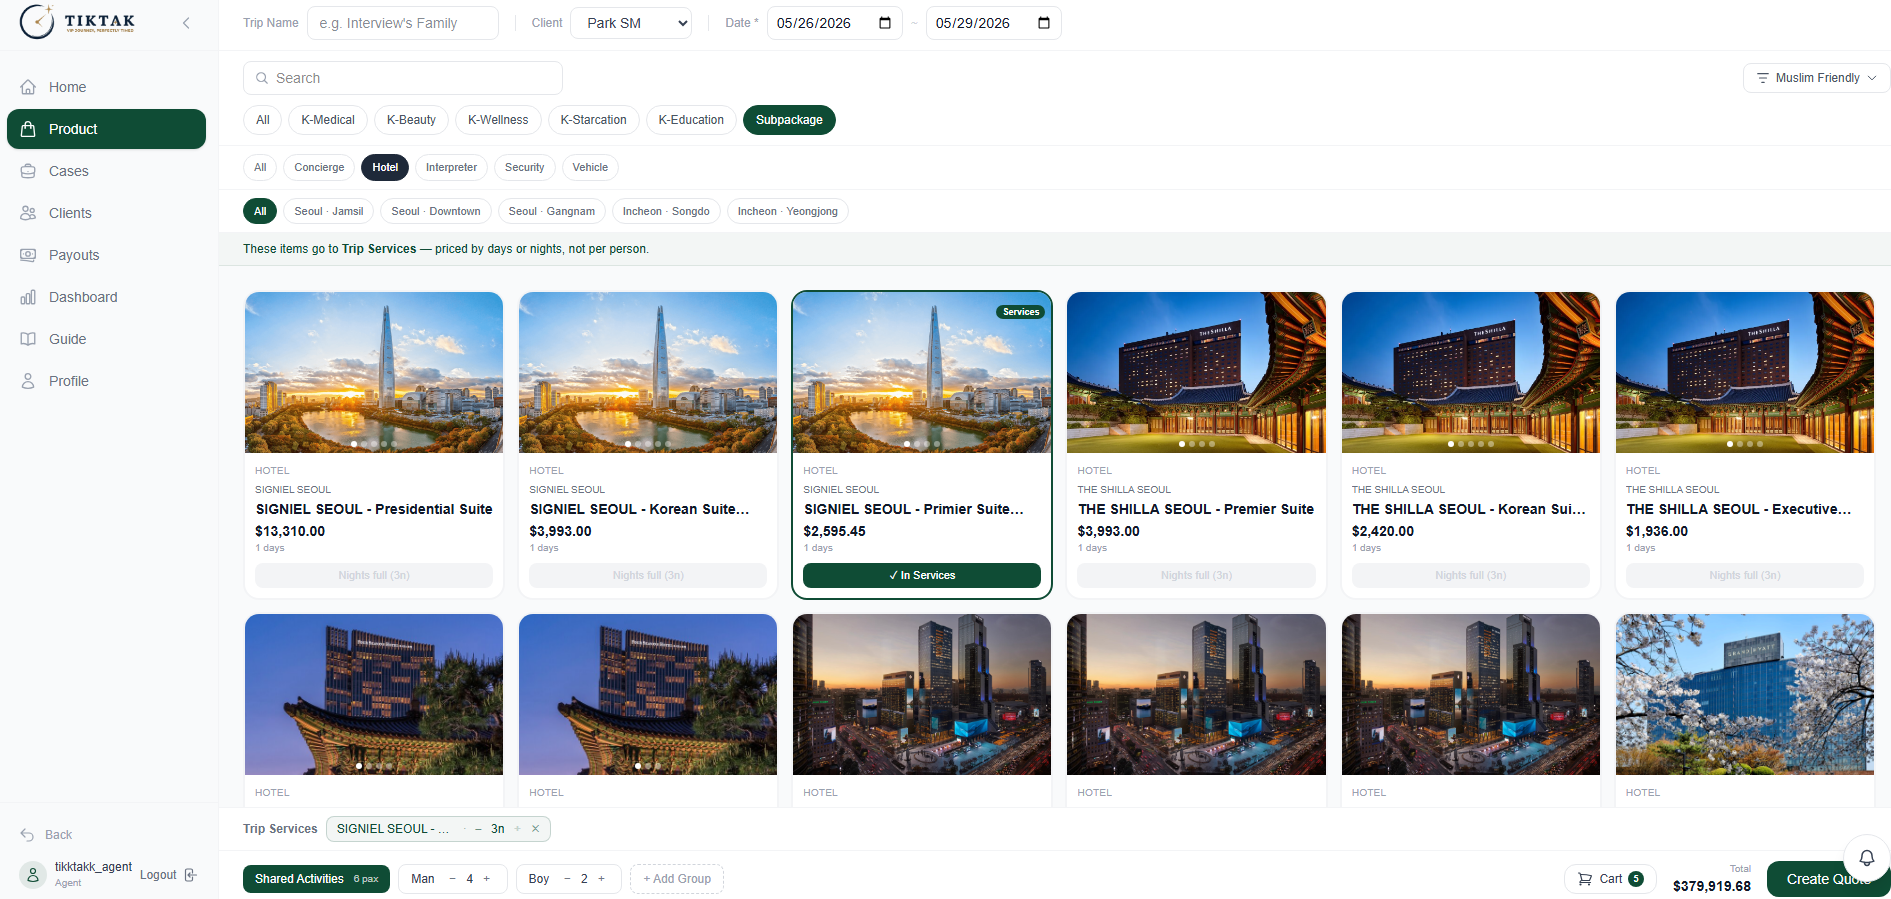
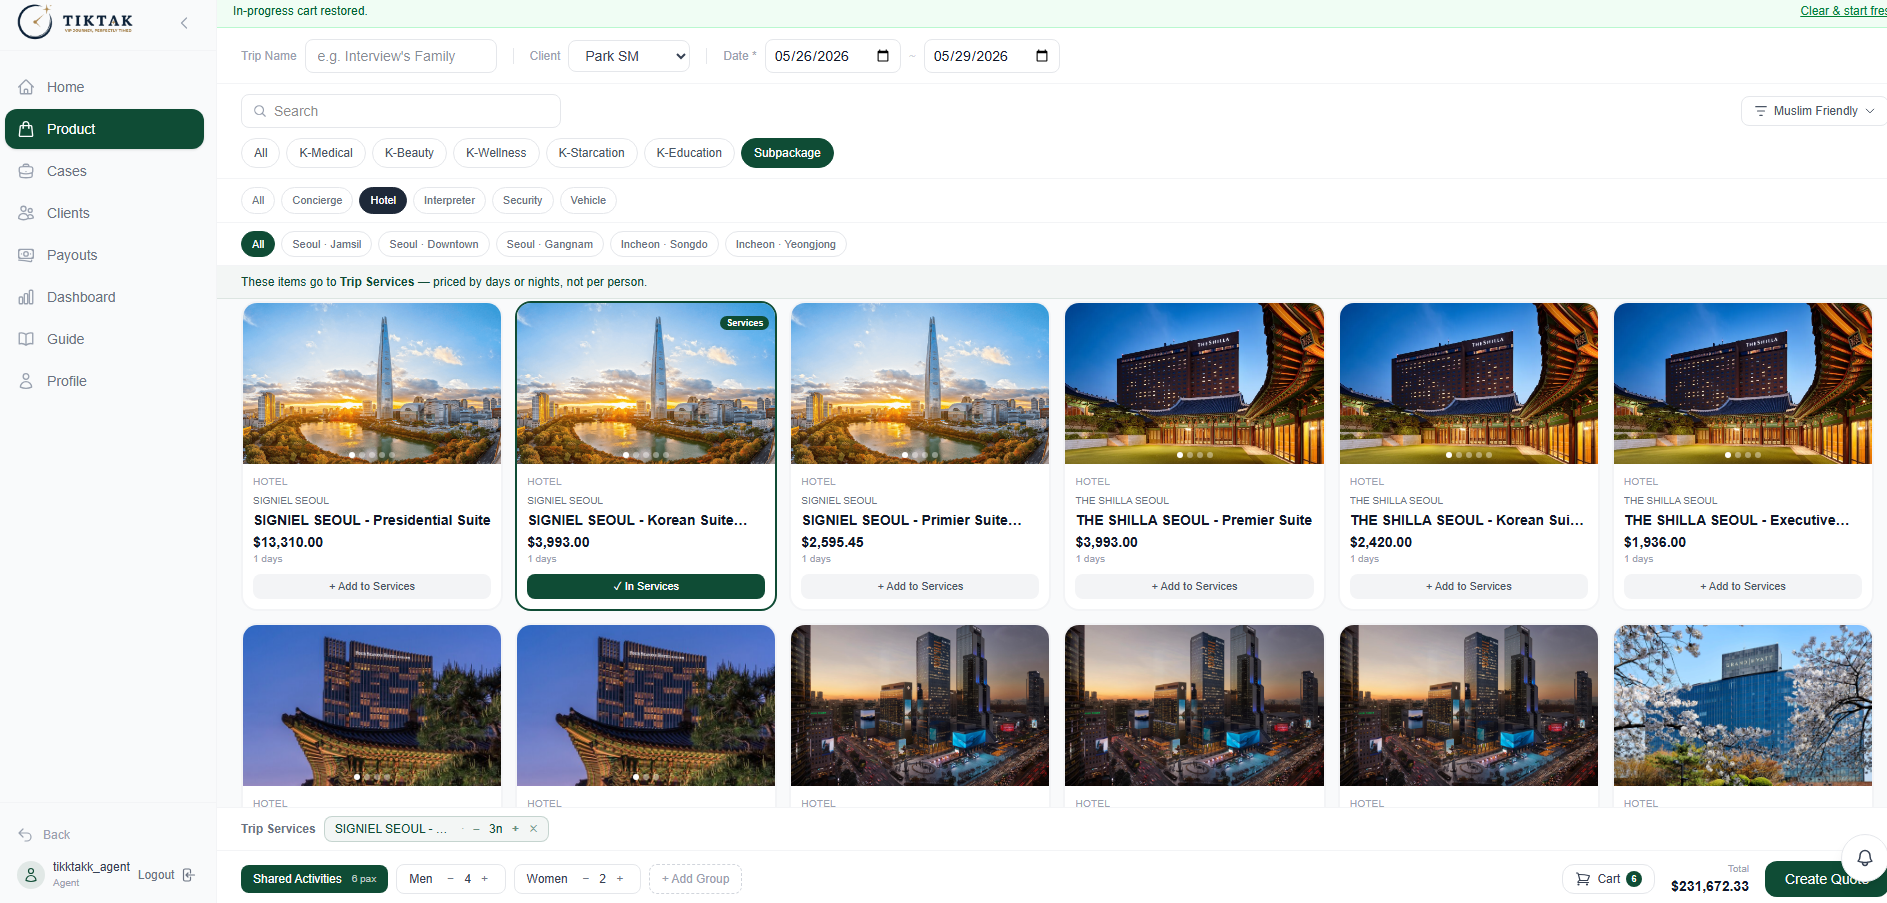
Members edit: per-group slot count + red borders + unassigned highlight
- Remove top-level "Group slots" badge row
- Show assigned/total count next to each group name input (green when full, red when not)
- Add red border to group containers until full, gray when complete
- Add red border + red label to Unassigned section
- Add gender to AgentClient type and per-group Add client dropdown options

diff --git a/src/app/agent/cases/[id]/page.tsx b/src/app/agent/cases/[id]/page.tsx
@@ -122,7 +122,7 @@ type CaseAttachment = {
   created_at: string
 }
 
-type AgentClient = { id: string; name: string; nationality: string }
+type AgentClient = { id: string; name: string; gender: string | null; nationality: string }
 type NewClientForm = {
   name: string; nationality: string; gender: 'male' | 'female'; date_of_birth: string
   phone: string; email: string; dietary_restriction: DietaryType; needs_muslim_friendly: boolean
@@ -323,7 +323,7 @@ export default function CaseDetailPage() {
       await fetchCase()
 
       if (aid) {
-        const { data: cl } = await supabase.from('clients').select('id, name, nationality').eq('agent_id', aid).order('name')
+        const { data: cl } = await supabase.from('clients').select('id, name, gender, nationality').eq('agent_id', aid).order('name')
         setAgentClients(cl ?? [])
       }
       setLoading(false)
@@ -411,7 +411,7 @@ export default function CaseDetailPage() {
         .select('id, name, nationality, needs_muslim_friendly').single()
       if (ce) throw ce
 
-      setAgentClients(p => [...p, { id: nc.id, name: nc.name, nationality: nc.nationality }])
+      setAgentClients(p => [...p, { id: nc.id, name: nc.name, gender: nc.gender ?? null, nationality: nc.nationality }])
 
       // Stage as a new member (commits to case_members when user clicks Save).
       const tempId = `new-${nc.id}-${Date.now()}`
@@ -1551,22 +1551,6 @@ export default function CaseDetailPage() {
               )}
             </div>
 
-            {/* Group slot overview — edit mode only (view-mode status handled by Case Readiness) */}
-            {editMembers && assignableGroups.length > 0 && (
-              <div className="flex items-center gap-2 flex-wrap text-[11px]">
-                <span className="text-gray-400">Group slots:</span>
-                {assignableGroups.map(g => {
-                  const assigned = pendingMembers.filter(p => !p.isRemoved && p.groupId === g.id).length
-                  const full = assigned === g.member_count
-                  const over = assigned > g.member_count
-                  return (
-                    <span key={g.id} className={`px-2 py-0.5 rounded-full border ${over ? 'bg-red-50 border-red-200 text-red-700' : full ? 'bg-green-50 border-green-200 text-green-700' : 'bg-amber-50 border-amber-200 text-amber-700'}`}>
-                      {g.name}: {assigned}/{g.member_count}
-                    </span>
-                  )
-                })}
-              </div>
-            )}
 
 
             {showNewClient && (
@@ -1758,14 +1742,21 @@ export default function CaseDetailPage() {
                   return (
                     <div className="grid grid-cols-1 sm:grid-cols-2 gap-4">
                       {groupedMembers.map(({ group, members }) => {
-                        const groupFull = members.filter(m => !m.isRemoved).length >= group.member_count
+                        const assignedCount = members.filter(m => !m.isRemoved).length
+                        const groupFull = assignedCount >= group.member_count
+                        const borderCls = groupFull ? 'border-gray-200' : 'border-red-200'
                         return (
-                        <div key={group.id} className="space-y-2">
-                          <input
-                            value={pendingGroupNames[group.id] ?? group.name}
-                            onChange={(e) => setPendingGroupNames(p => ({ ...p, [group.id]: e.target.value }))}
-                            placeholder="Group name"
-                            className="w-full text-[11px] font-semibold text-gray-700 uppercase tracking-wide bg-transparent border-b border-gray-200 focus:outline-none focus:border-[#0f4c35] py-1" />
+                        <div key={group.id} className={`space-y-2 border rounded-xl p-3 ${borderCls}`}>
+                          <div className="flex items-center gap-2">
+                            <input
+                              value={pendingGroupNames[group.id] ?? group.name}
+                              onChange={(e) => setPendingGroupNames(p => ({ ...p, [group.id]: e.target.value }))}
+                              placeholder="Group name"
+                              className="flex-1 text-[11px] font-semibold text-gray-700 uppercase tracking-wide bg-transparent border-b border-gray-200 focus:outline-none focus:border-[#0f4c35] py-1" />
+                            <span className={`text-[11px] font-semibold tabular-nums ${groupFull ? 'text-green-700' : 'text-red-400'}`}>
+                              {assignedCount}/{group.member_count}
+                            </span>
+                          </div>
                           {members.length === 0 ? (
                             <p className="text-xs text-gray-300 italic">No members assigned</p>
                           ) : (
@@ -1775,15 +1766,18 @@ export default function CaseDetailPage() {
                             <select value="" onChange={e => { if (e.target.value) stageAddExisting(e.target.value, group.id) }}
                               className="w-full text-xs border border-dashed border-gray-300 rounded-lg px-2.5 py-1.5 focus:outline-none focus:border-[#0f4c35] bg-white text-gray-500">
                               <option value="">+ Add client to {pendingGroupNames[group.id] ?? group.name}...</option>
-                              {addableClients.map(c => <option key={c.id} value={c.id}>{c.name}{c.nationality ? ` · ${c.nationality}` : ''}</option>)}
+                              {addableClients.map(c => {
+                                const parts = [c.name, c.gender, c.nationality].filter(Boolean)
+                                return <option key={c.id} value={c.id}>{parts.join(' · ')}</option>
+                              })}
                             </select>
                           )}
                         </div>
                       )})}
 
                       {unassigned.length > 0 && (
-                        <div className="space-y-2 sm:col-span-2">
-                          <p className="text-[10px] font-semibold text-amber-600 uppercase tracking-wide">Unassigned</p>
+                        <div className="space-y-2 sm:col-span-2 border border-red-200 rounded-xl p-3">
+                          <p className="text-[10px] font-semibold text-red-400 uppercase tracking-wide">Unassigned</p>
                           <div className="grid grid-cols-1 sm:grid-cols-2 gap-2">
                             {unassigned.map(renderMemberCard)}
                           </div>